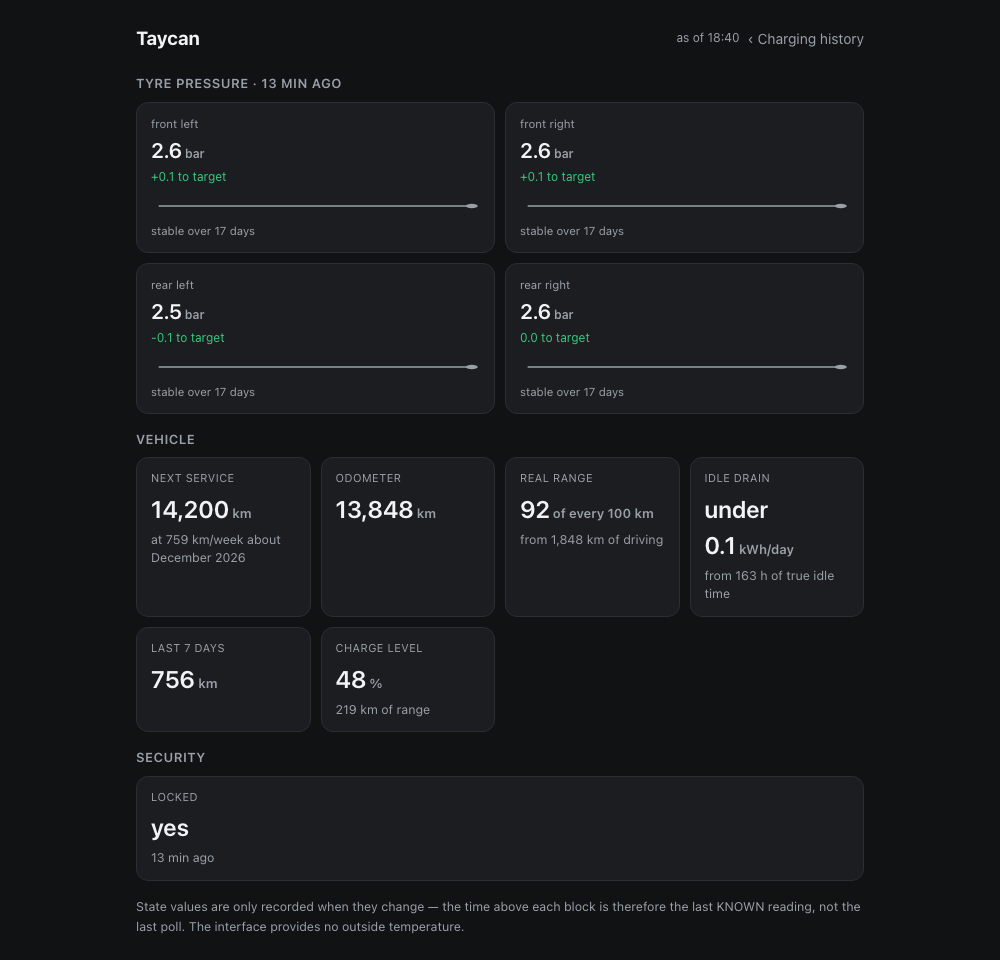
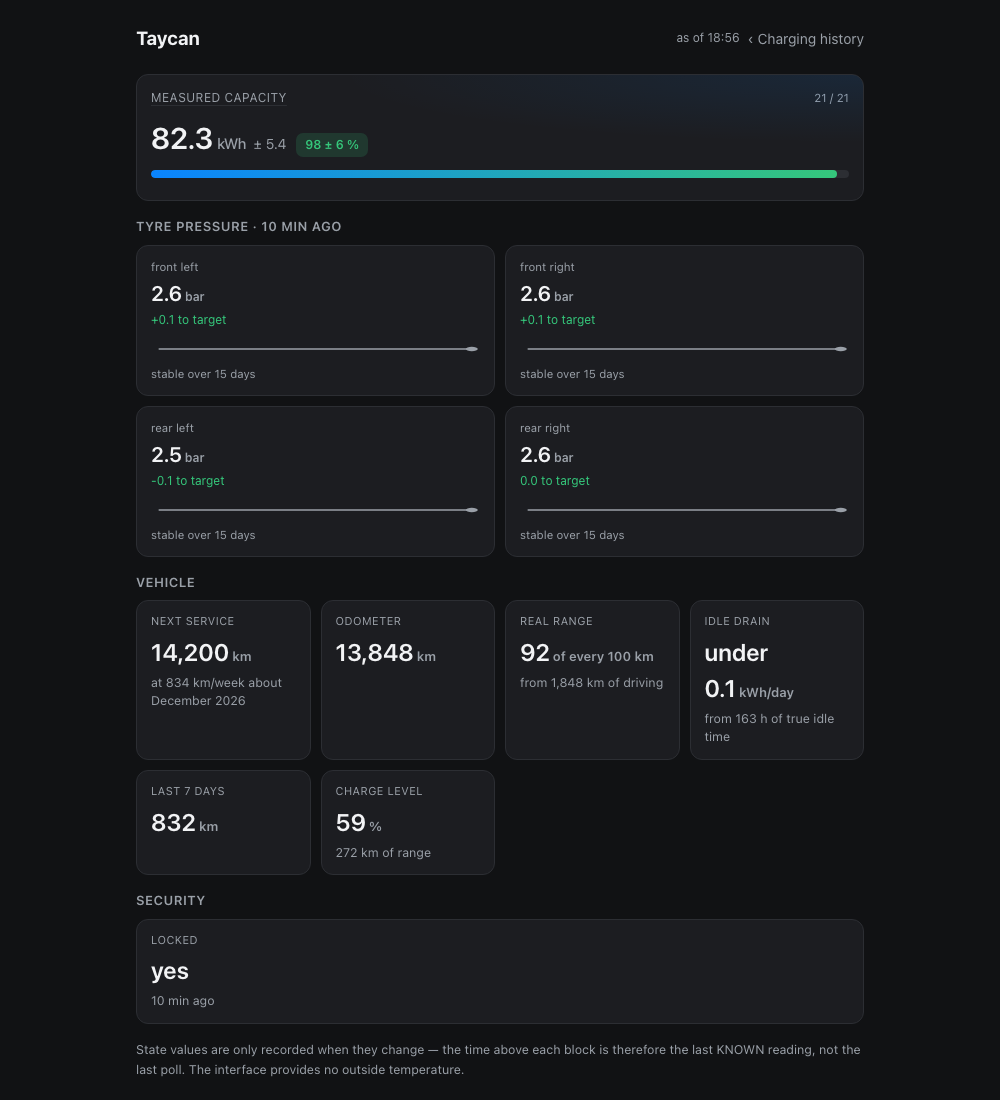
feat(ui): dieselbe Anordnung wie im Betrieb — Kachel im Zustand, Status in einer Zeile
Die Screenshots zeigten ein Dashboard, das es so nicht gibt: Der
veröffentlichte Baum hatte die Anzeige-Umbauten nicht, weil ich sie beim
Portieren als „lokal-spezifisch" ausgelassen hatte. Damit wich die
Oberfläche im Repo von der ab, die tatsächlich läuft — und die Bilder
zeigten weder das eine noch das andere sauber.

Jetzt gleich:

  - Die Kapazitätskachel steht auf der ZUSTANDSSEITE über dem
    Reifendruck, nicht mehr über den Zeitraum-Filtern der Ladehistorie.
    Sie beschreibt den Zustand des Fahrzeugs, nicht seinen Verbrauch.
  - Sie wird ladeseitig gespeist und zeigt die Grundlage als „5 / 28"
    statt als Entladezyklen — die Zahl kommt aus Ladungen.
  - Der Steckerzustand steht rechts neben dem Ladestand statt darunter.
    Er ist ein Status und braucht keine eigene Zeile.
  - CAP_CSS ist ausgelagert, weil die Kachel sonst auf der neuen Seite
    als nackte Textzeilen rendert — der Stil lag im Style-Block der
    alten.

Die Screenshots sind daraufhin neu aufgenommen, weiterhin aus einem
synthetischen Mitschrieb. Dabei fiel ein Fehler in den Demo-Daten auf:
Die simulierte Ladung lud 3,5 Stunden mit 10 kW für 18 Prozentpunkte —
das wären 194 kWh Kapazität, und der Plausibilitätsfilter warf sie zu
Recht weg. Mit einer physikalisch stimmigen Kurve zeigen die Bilder
jetzt 21 von 21 verwerteten Ladungen.

907 Tests.

diff --git a/src/dashboard.ts b/src/dashboard.ts
@@ -1647,40 +1647,7 @@ h1 button.cog.busy svg{animation:spin .9s linear infinite}
 .card.driven b{color:#e8833a}
 .card.charged b{color:var(--accent)}
 @media(prefers-color-scheme:dark){.card.save b{color:#35c77b}}
-.cap{background:var(--card);border:1px solid var(--line);border-radius:12px;
- padding:14px;margin-bottom:16px;position:relative;overflow:hidden}
-.cap::after{content:"";position:absolute;inset:0;pointer-events:none;
- background:radial-gradient(120% 90% at 100% 0%,rgba(10,132,255,.10),transparent 60%)}
-.caphead{display:flex;justify-content:space-between;align-items:baseline;margin-bottom:8px}
-.caphead span{color:var(--dim);font-size:12px;text-transform:uppercase;letter-spacing:.04em}
-/* Der Weg zum Nachweis führt über die Überschrift der Kachel — dort steht die
-   Zahl, über die er Auskunft gibt. Dezent unterstrichen statt als Knopf: Die
-   Seite braucht kaum jemand täglich, aber wer sie sucht, sucht sie hier. */
-.caphead a.plain{color:inherit;text-decoration:underline;text-underline-offset:3px;
- text-decoration-color:var(--line)}
-.caphead em{font-style:normal;color:var(--dim);font-size:11.5px}
-.capmain{display:flex;align-items:baseline;gap:10px;margin-bottom:10px}
-.capmain b{font-size:30px;font-weight:600;letter-spacing:-.03em;
- font-variant-numeric:tabular-nums}
-.capmain b i{font-style:normal;font-size:15px;font-weight:500;color:var(--dim);margin-left:4px}
-.soh{font-size:12px;font-weight:600;color:#1e9e5a;background:rgba(30,158,90,.14);
- padding:3px 9px;border-radius:7px}
-@media(prefers-color-scheme:dark){.soh{color:#35c77b;background:rgba(53,199,123,.16)}}
-.capbar{position:relative;height:8px;background:var(--line);border-radius:5px;
- overflow:hidden;margin-bottom:8px}
-.capbar i{display:block;height:100%;border-radius:5px;
- background:linear-gradient(90deg,#0a84ff,#35c77b)}
-/* Streuung als helle Zone über dem Balken — zeigt die Unsicherheit mit an. */
-.capbar u{position:absolute;top:0;height:100%;background:rgba(255,255,255,.45);
- border-radius:5px;mix-blend-mode:overlay}
-.capfoot{color:var(--dim);font-size:11.5px}
-/* Verlauf über die Monate: Linie und Spanne nebeneinander, damit die Karte
-   nicht in die Höhe wächst. */
-.captrend{display:flex;align-items:center;gap:10px;margin:2px 0 8px}
-.captrend em{font-style:normal;color:var(--dim);font-size:11.5px}
-/* Die Unsicherheit steht direkt an der Zahl, nicht im Kleingedruckten: Eine
-   Kapazität ohne ihre Spanne lädt dazu ein, sie für einen Messwert zu halten. */
-.capunc{color:var(--dim);font-size:14px;font-style:normal;margin-left:-2px}
+${CAP_CSS}
 .quality{border-radius:10px;padding:9px 12px;font-size:12.5px;margin-bottom:12px;
  border:1px solid var(--line)}
 .quality.warn{background:rgba(200,129,26,.14);color:#c8811a;border-color:rgba(200,129,26,.35)}
@@ -1688,7 +1655,13 @@ h1 button.cog.busy svg{animation:spin .9s linear infinite}
 @media(prefers-color-scheme:dark){.quality.warn{color:#e0a54a}.quality.bad{color:#e07a68}}
 .status{background:var(--card);border:1px solid var(--line);border-radius:12px;
  padding:13px;margin-bottom:12px}
-.soc{margin-bottom:10px}
+/* Ladestand links, Steckerzustand rechts — in EINER Zeile. Vorher standen
+   die Plaketten darunter und kosteten eine eigene Zeile, obwohl „nicht
+   eingesteckt" nur ein Status ist. Der Balken bleibt darüber in voller
+   Breite, er ist die Hauptaussage. */
+.socrow{display:flex;justify-content:space-between;align-items:baseline;
+ gap:10px;flex-wrap:wrap}
+.soc{min-width:0}
 .soc b{font-size:26px;font-weight:600;letter-spacing:-.02em;margin-right:8px}
 .soc span{color:var(--dim);font-size:13px}
 .socbar{height:7px;background:var(--line);border-radius:4px;overflow:hidden;margin-bottom:9px}
@@ -1927,8 +1900,9 @@ ${CHART_CSS}${BARS_CSS}${SPARK_CSS}${REFRESH_CSS}
  fill="none" stroke="currentColor" stroke-width="1.8" stroke-linecap="round" stroke-linejoin="round"
  ><circle cx="12" cy="12" r="3"/><path d="M19.4 15a1.7 1.7 0 0 0 .3 1.9l.1.1a2 2 0 1 1-2.8 2.8l-.1-.1a1.7 1.7 0 0 0-1.9-.3 1.7 1.7 0 0 0-1 1.5V21a2 2 0 1 1-4 0v-.1A1.7 1.7 0 0 0 8.9 19a1.7 1.7 0 0 0-1.9.3l-.1.1a2 2 0 1 1-2.8-2.8l.1-.1a1.7 1.7 0 0 0 .3-1.9 1.7 1.7 0 0 0-1.5-1H3a2 2 0 1 1 0-4h.1A1.7 1.7 0 0 0 5 8.9a1.7 1.7 0 0 0-.3-1.9l-.1-.1a2 2 0 1 1 2.8-2.8l.1.1a1.7 1.7 0 0 0 1.9.3H9.5a1.7 1.7 0 0 0 1-1.5V3a2 2 0 1 1 4 0v.1a1.7 1.7 0 0 0 1 1.5 1.7 1.7 0 0 0 1.9-.3l.1-.1a2 2 0 1 1 2.8 2.8l-.1.1a1.7 1.7 0 0 0-.3 1.9v.1a1.7 1.7 0 0 0 1.5 1H21a2 2 0 1 1 0 4h-.1a1.7 1.7 0 0 0-1.5 1z"/></svg></a></em></h1>
 <div class="status">
+  <div class="socbar"><i style="width:${st.state?.soc ?? 0}%"></i></div>
+  <div class="socrow">
   <div class="soc">
-    <div class="socbar"><i style="width:${st.state?.soc ?? 0}%"></i></div>
     <b>${st.state?.soc !== undefined ? `${st.state.soc} %` : '—'}</b>
     <span>${st.state?.rangeKm !== undefined ? `${st.state.rangeKm} km` : ''}${
       st.state?.minSoc !== undefined ? ` · ${esc(L.dashInstantTo)} ${st.state.minSoc} %` : ''
@@ -1949,59 +1923,9 @@ ${CHART_CSS}${BARS_CSS}${SPARK_CSS}${REFRESH_CSS}
           : esc(L.dashNoDataYet)
     }</span>
   </div>
+  </div>
 </div>
-<!-- Über den Filtern: Die gemessene Kapazität ändert sich weder mit dem
-     Zeitraum noch mit dem Ort. Darunter gelesen wirkte sie gefiltert. -->
-${
-  // Nur bei gesichert rein elektrischem Antrieb: Bei allem anderen wäre die
-  // Zahl still falsch — siehe {@link DashboardOptions.pureElectric}.
-  cap.capacityKwh !== undefined && istElektrisch(o)
-    ? `<div class="cap">
-        <div class="caphead">
-          <span><a href="/batterie" class="plain">${esc(L.dashMeasuredCapacity)}</a></span>
-          <em>${cap.samples} ${esc(cap.samples === 1 ? L.capDrive : L.capDrives)} · ${cap.km} km</em>
-        </div>
-        <div class="capmain">
-          <b>${cap.capacityKwh.toFixed(1)}<i>kWh</i></b>
-          ${
-            cap.uncertaintyKwh !== undefined
-              ? `<i class="capunc">± ${cap.uncertaintyKwh.toFixed(1)}</i>`
-              : ''
-          }
-          ${soh !== undefined ? `<span class="soh">${soh.toFixed(0)} % ${esc(L.dashHealth)}</span>` : ''}
-        </div>
-        <div class="capbar">
-          <i style="width:${Math.max(0, Math.min(100, soh ?? 0))}%"></i>
-          ${
-            cap.spreadKwh !== undefined
-              ? `<u style="left:${Math.max(0, Math.min(96, (soh ?? 0) - 2))}%;width:${Math.min(
-                  20,
-                  (cap.spreadKwh / cfg.capacityKwh) * 100,
-                )}%"></u>`
-              : ''
-          }
-        </div>
-        ${
-          capTrend.length
-            ? `<div class="captrend">${sparkline(
-                capTrend.map((m) => ({ t: Date.parse(`${m.month}-15T12:00:00Z`), v: m.kwh })),
-                { minSpan: 2 },
-              )}<em>${esc(
-                L.capTrendOver
-                  .replace('%a', capTrend[0].kwh.toFixed(1))
-                  .replace('%b', capTrend[capTrend.length - 1].kwh.toFixed(1))
-                  .replace('%n', String(capTrend.length)),
-              )}</em></div>`
-            : ''
-        }
-        <div class="capfoot">${esc(L.dashConfigured)} ${cfg.capacityKwh} kWh${
-          capDelta !== undefined
-            ? ` · ${esc(L.dashMeasurement)} ${capDelta > 0 ? '+' : ''}${capDelta.toFixed(1)} %`
-            : ''
-        }${cap.spreadKwh !== undefined ? ` · ${esc(L.dashSpread)} ±${(cap.spreadKwh / 2).toFixed(1)} kWh` : ''}</div>
-      </div>`
-    : ''
-}
+
 ${REFRESH_NOTE}
 <nav class="tabs">${tabs}</nav>
 ${placeTabs}${nav}${
@@ -2440,6 +2364,46 @@ tr.sum td{font-weight:600;border-top:2px solid var(--line);border-bottom:0;paddi
  * hörte das Symbol dort einfach auf zu drehen — keine Erklärung, kein
  * Hinweis, ob überhaupt etwas passiert ist.
  */
+/**
+ * Die Kapazitätskachel — von der Zustandsseite gebraucht, das Markup selbst
+ * steht dort. Als Konstante, weil eine Kachel, deren Stil nur auf einer Seite
+ * geladen wird, auf der anderen als nackte Textzeilen rendert.
+ */
+const CAP_CSS = `.cap{background:var(--card);border:1px solid var(--line);border-radius:12px;
+ padding:14px;margin-bottom:16px;position:relative;overflow:hidden}
+.cap::after{content:"";position:absolute;inset:0;pointer-events:none;
+ background:radial-gradient(120% 90% at 100% 0%,rgba(10,132,255,.10),transparent 60%)}
+.caphead{display:flex;justify-content:space-between;align-items:baseline;margin-bottom:8px}
+.caphead span{color:var(--dim);font-size:12px;text-transform:uppercase;letter-spacing:.04em}
+/* Der Weg zum Nachweis führt über die Überschrift der Kachel — dort steht die
+   Zahl, über die er Auskunft gibt. Dezent unterstrichen statt als Knopf: Die
+   Seite braucht kaum jemand täglich, aber wer sie sucht, sucht sie hier. */
+.caphead a.plain{color:inherit;text-decoration:underline;text-underline-offset:3px;
+ text-decoration-color:var(--line)}
+.caphead em{font-style:normal;color:var(--dim);font-size:11.5px}
+.capmain{display:flex;align-items:baseline;gap:10px;margin-bottom:10px}
+.capmain b{font-size:30px;font-weight:600;letter-spacing:-.03em;
+ font-variant-numeric:tabular-nums}
+.capmain b i{font-style:normal;font-size:15px;font-weight:500;color:var(--dim);margin-left:4px}
+.soh{font-size:12px;font-weight:600;color:#1e9e5a;background:rgba(30,158,90,.14);
+ padding:3px 9px;border-radius:7px}
+@media(prefers-color-scheme:dark){.soh{color:#35c77b;background:rgba(53,199,123,.16)}}
+.capbar{position:relative;height:8px;background:var(--line);border-radius:5px;
+ overflow:hidden;margin-bottom:8px}
+.capbar i{display:block;height:100%;border-radius:5px;
+ background:linear-gradient(90deg,#0a84ff,#35c77b)}
+/* Streuung als helle Zone über dem Balken — zeigt die Unsicherheit mit an. */
+.capbar u{position:absolute;top:0;height:100%;background:rgba(255,255,255,.45);
+ border-radius:5px;mix-blend-mode:overlay}
+.capfoot{color:var(--dim);font-size:11.5px}
+/* Verlauf über die Monate: Linie und Spanne nebeneinander, damit die Karte
+   nicht in die Höhe wächst. */
+.captrend{display:flex;align-items:center;gap:10px;margin:2px 0 8px}
+.captrend em{font-style:normal;color:var(--dim);font-size:11.5px}
+/* Die Unsicherheit steht direkt an der Zahl, nicht im Kleingedruckten: Eine
+   Kapazität ohne ihre Spanne lädt dazu ein, sie für einen Messwert zu halten. */
+.capunc{color:var(--dim);font-size:14px;font-style:normal;margin-left:-2px}`;
+
 const REFRESH_NOTE = '<div id="rfnote" class="rfnote" hidden></div>';
 
 const REFRESH_CSS = `
@@ -2807,7 +2771,7 @@ function renderStatus(
 <meta name="viewport" content="width=device-width,initial-scale=1,viewport-fit=cover">
 ${THEME_META}
 <title>${esc(o.vehicleName)} — ${esc(L.stTitle)}</title>
-<style>${BASE_CSS}${SPARK_CSS}
+<style>${BASE_CSS}${SPARK_CSS}${CAP_CSS}
 .grid{display:grid;grid-template-columns:repeat(auto-fit,minmax(150px,1fr));gap:10px;margin-bottom:16px}
 .card span{display:block;color:var(--dim);font-size:11px;text-transform:uppercase;
  letter-spacing:.04em;margin-bottom:4px}
@@ -2855,6 +2819,67 @@ h2{font-size:13px;text-transform:uppercase;letter-spacing:.04em;color:var(--dim)
     : ''
 }<a class="back" href="/">‹ ${esc(L.stBackToCharging)}</a></em></h1>
 ${REFRESH_NOTE}
+${
+  // Die Batterie steht ÜBER dem Reifendruck: Sie ist der Zustand, der den
+  // Wert des Fahrzeugs bestimmt, und der einzige, den man nicht selbst
+  // nachsehen kann. Gemessen wird über die LADUNGEN — der fahrseitige Weg
+  // irrt systematisch nach unten und liefert nur noch den Monatsverlauf.
+  stats.chargeCapacity.capacityKwh !== undefined && istElektrisch(o)
+    ? `<div class="cap">
+        <div class="caphead">
+          <span><a href="/batterie" class="plain">${esc(L.dashMeasuredCapacity)}</a></span>
+          <em>${stats.chargeCapacity.samples} / ${stats.chargeCapacity.seen}</em>
+        </div>
+        <div class="capmain">
+          <b>${stats.chargeCapacity.capacityKwh.toFixed(1)}<i>kWh</i></b>
+          ${
+            stats.chargeCapacity.uncertaintyKwh !== undefined
+              ? `<i class="capunc">± ${stats.chargeCapacity.uncertaintyKwh.toFixed(1)}</i>`
+              : ''
+          }
+          ${
+            o.capacityKwh
+              ? `<span class="soh">${(
+                  (stats.chargeCapacity.capacityKwh / o.capacityKwh) *
+                  100
+                ).toFixed(0)}${
+                  stats.chargeCapacity.uncertaintyKwh !== undefined
+                    ? ` ± ${((stats.chargeCapacity.uncertaintyKwh / o.capacityKwh) * 100).toFixed(0)}`
+                    : ''
+                } %</span>`
+              : ''
+          }
+        </div>
+        ${
+          o.capacityKwh
+            ? `<div class="capbar"><i style="width:${Math.max(
+                0,
+                Math.min(100, (stats.chargeCapacity.capacityKwh / o.capacityKwh) * 100),
+              )}%"></i></div>`
+            : ''
+        }
+        ${
+          // Der Monatsverlauf kommt aus der FAHRSEITIGEN Messung — sie reicht
+          // weiter zurück. Für „wird die Batterie schlechter?" zählt die
+          // Richtung, und ein systematischer Fehler kürzt sich heraus.
+          capacityTrend(stats.capacity).length >= 2
+            ? (() => {
+                const t = capacityTrend(stats.capacity);
+                return `<div class="captrend">${sparkline(
+                  t.map((m) => ({ t: Date.parse(`${m.month}-15T12:00:00Z`), v: m.kwh })),
+                  { minSpan: 2 },
+                )}<em>${esc(
+                  L.capTrendOver
+                    .replace('%a', t[0].kwh.toFixed(1))
+                    .replace('%b', t[t.length - 1].kwh.toFixed(1))
+                    .replace('%n', String(t.length)),
+                )}</em></div>`;
+              })()
+            : ''
+        }
+      </div>`
+    : ''
+}
 ${
   tyre
     ? `<h2>${esc(L.stTyrePressure)} · ${esc(ago(tyre.at))}</h2>${

diff --git a/test/hybridGuard.test.ts b/test/hybridGuard.test.ts
@@ -25,8 +25,21 @@ describe('Auswertungen bei nicht rein elektrischem Antrieb', () => {
     fs.writeFileSync(
       path.join(dir, '2026-07-20.jsonl'),
       [
-        { ts: t(0), soc: 80, odometerKm: 50000, plugged: true, charging: true },
-        { ts: t(1), soc: 80, odometerKm: 50000, plugged: false, tripKwh100: 20 },
+        // Eine Ladung MIT Leistungsangabe: Die Kapazität wird ladeseitig
+        // gemessen. Dafür braucht es powerKw, einen Hub von mindestens zehn
+        // Punkten UND einen feinen Takt — über Lücken von mehr als einer
+        // Viertelstunde wird bewusst keine Energie gebucht.
+        ...Array.from({ length: 13 }, (_, i) => ({
+          ts: new Date(Date.UTC(2026, 6, 20, 0, i * 10)).toISOString(),
+          soc: 60 + Math.round(i * (20 / 12)),
+          odometerKm: 50000,
+          plugged: true,
+          charging: true,
+          // 8 kW über zwei Stunden sind 16 kWh auf 20 Punkte = 80 kWh.
+          powerKw: 8 + (i % 2) * 0.1,
+          rangeKm: 200 + i * 7,
+        })),
+        { ts: t(3), soc: 80, odometerKm: 50000, plugged: false, tripKwh100: 20 },
         { ts: t(10), soc: 40, odometerKm: 50170, plugged: false, tripKwh100: 20 },
       ]
         .map((r) => JSON.stringify(r))
@@ -66,18 +79,18 @@ describe('Auswertungen bei nicht rein elektrischem Antrieb', () => {
   };
 
   it('zeigt die gemessene Kapazität bei einem Elektrofahrzeug', async () => {
-    expect(await seite('/', true)).toContain('Measured capacity');
+    expect(await seite('/status', true)).toContain('Measured capacity');
   });
 
   it('zeigt sie NICHT, wenn der Antrieb nicht rein elektrisch ist', async () => {
-    expect(await seite('/', false)).not.toContain('Measured capacity');
+    expect(await seite('/status', false)).not.toContain('Measured capacity');
   });
 
   it('zeigt sie NICHT bei unbekanntem Antrieb, statt zu raten', async () => {
     // Der wichtigste Fall: Ein älteres Konto liefert womöglich keine
     // Antriebsangabe. Dann ist Schweigen richtig — eine falsche Kapazität
     // fällt niemandem auf, weil sie plausibel aussieht.
-    expect(await seite('/')).not.toContain('Measured capacity');
+    expect(await seite('/status')).not.toContain('Measured capacity');
   });
 
   it('erklärt auf dem Batterie-Nachweis, warum dort nichts steht', async () => {
@@ -104,8 +117,21 @@ describe('Antriebsart, die erst nach dem Start feststeht', () => {
     fs.writeFileSync(
       path.join(dir, '2026-07-20.jsonl'),
       [
-        { ts: t(0), soc: 80, odometerKm: 50000, plugged: true, charging: true },
-        { ts: t(1), soc: 80, odometerKm: 50000, plugged: false, tripKwh100: 20 },
+        // Eine Ladung MIT Leistungsangabe: Die Kapazität wird ladeseitig
+        // gemessen. Dafür braucht es powerKw, einen Hub von mindestens zehn
+        // Punkten UND einen feinen Takt — über Lücken von mehr als einer
+        // Viertelstunde wird bewusst keine Energie gebucht.
+        ...Array.from({ length: 13 }, (_, i) => ({
+          ts: new Date(Date.UTC(2026, 6, 20, 0, i * 10)).toISOString(),
+          soc: 60 + Math.round(i * (20 / 12)),
+          odometerKm: 50000,
+          plugged: true,
+          charging: true,
+          // 8 kW über zwei Stunden sind 16 kWh auf 20 Punkte = 80 kWh.
+          powerKw: 8 + (i % 2) * 0.1,
+          rangeKm: 200 + i * 7,
+        })),
+        { ts: t(3), soc: 80, odometerKm: 50000, plugged: false, tripKwh100: 20 },
         { ts: t(10), soc: 40, odometerKm: 50170, plugged: false, tripKwh100: 20 },
       ]
         .map((r) => JSON.stringify(r))
@@ -141,11 +167,11 @@ describe('Antriebsart, die erst nach dem Start feststeht', () => {
     await new Promise((r) => server.once('listening', r));
     const a = server.address();
     const p = typeof a === 'object' && a ? a.port : 0;
-    const vorher = await (await fetch(`http://127.0.0.1:${p}/`)).text();
+    const vorher = await (await fetch(`http://127.0.0.1:${p}/status`)).text();
     expect(vorher).not.toContain('Measured capacity');
 
     elektrisch = true;
-    const nachher = await (await fetch(`http://127.0.0.1:${p}/`)).text();
+    const nachher = await (await fetch(`http://127.0.0.1:${p}/status`)).text();
     expect(nachher).toContain('Measured capacity');
     server.close();
   });

diff --git a/test/dashboard.test.ts b/test/dashboard.test.ts
@@ -1745,6 +1745,18 @@ describe('Kapazitätsverlauf auf der Seite', () => {
     const iso = (h: number): string =>
       `${month}-${String(day).padStart(2, '0')}T${String(h).padStart(2, '0')}:00:00.000Z`;
     return [
+      // Ladepunkte mit Leistung: Die Kachel, in der der Verlauf steht, wird
+      // ladeseitig gespeist — ohne sie erscheint sie gar nicht.
+      ...Array.from({ length: 13 }, (_, i) => ({
+        ts: `${month}-${String(day).padStart(2, '0')}T04:${String(i * 10).padStart(2, '0')}:00.000Z`,
+        soc: 60 + Math.round(i * (20 / 12)),
+        odometerKm: odo,
+        plugged: true,
+        charging: true,
+        atHome: true,
+        powerKw: 8 + (i % 2) * 0.1,
+        rangeKm: 200 + i * 7,
+      })),
       { ts: iso(6), soc: 80, odometerKm: odo, plugged: true, charging: true, atHome: true },
       { ts: iso(7), soc: 80, odometerKm: odo, plugged: false },
       { ts: iso(9), soc: 50, odometerKm: odo + 100, plugged: false, tripKwh100: kwh100 },
@@ -1806,7 +1818,7 @@ describe('Kapazitätsverlauf auf der Seite', () => {
 
   it('zeichnet den Verlauf ab vier Monaten', async () => {
     await serve(['2026-01', '2026-02', '2026-03', '2026-04'], 19400);
-    const html = await (await fetch(`${url}/?g=year`)).text();
+    const html = await (await fetch(`${url}/status`)).text();
     expect(html).toContain('class="captrend"');
     expect(html).toContain('over 4 months');
     // 84,0 → 81,0 kWh: Anfang und Ende stehen als Zahl daneben, damit die
